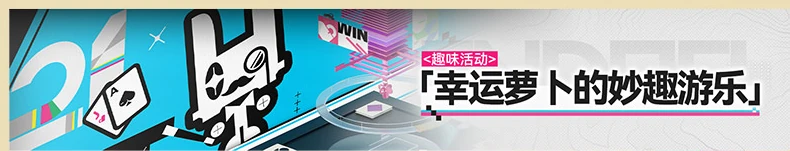
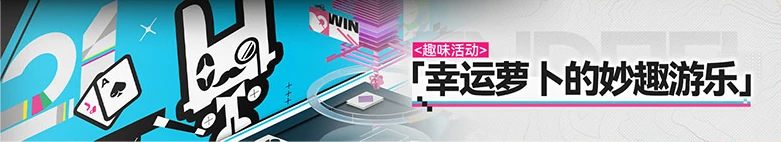
fix(calendar): 改善第八版活动横幅裁切与展示
按官方插画边缘重裁配图，让窄活动条中的横幅等比铺满行高，并在详情保留完整插画。

diff --git a/app.js b/app.js
@@ -249,15 +249,22 @@ function eventRemainingText(event, now = new Date()) {
 function applyEventVisual(element, event) {
   element.dataset.visual = event.visual ?? event.category;
   element.classList.toggle("has-image", Boolean(event.image));
-  // 官方活动与卡池横幅完整展示，详情沿用横幅比例。
-  const artwork = event.image?.match(/\/assets\/events\/(danqing|winter|pool|mushroom)-[^/]+\.webp$/u)?.[1];
+  const artwork = event.image?.match(/\/assets\/events\/((?:danqing|winter|pool|mushroom)-[^/]+)\.webp$/u)?.[1];
+  const tallArtwork = artwork?.startsWith("mushroom-pool-") || artwork === "mushroom-old-dam";
   element.classList.toggle("banner-art", Boolean(artwork));
-  element.classList.toggle("tall-announcement-art", /\/mushroom-(?:pool-[^/]+|old-dam)\.webp$/u.test(event.image || ""));
+  element.classList.toggle("tall-announcement-art", tallArtwork);
+  element.style.setProperty("--banner-aspect", tallArtwork
+    ? `781 / ${artwork === "mushroom-old-dam" ? 440 : 438}`
+    : "5.5");
+  element.style.setProperty("--banner-position", tallArtwork
+    ? `${event.category === "operator" ? "28%" : "50%"} 40%`
+    : "center");
   element.classList.toggle(
     "pool-art",
     Boolean(event.image) && (event.category === "operator" || event.category === "arsenal"),
   );
   if (event.backgroundType) element.dataset.backgroundType = event.backgroundType;
+  else delete element.dataset.backgroundType;
   element.style.setProperty("--event-color", event.color);
   element.style.setProperty("--event-image", event.image ? `url("${event.image}")` : "none");
 }
@@ -784,29 +791,35 @@ function updateVisibleEventContent() {
     const barStart = labelWidth + start * currentDayWidth;
     const barWidth = Math.max(duration * currentDayWidth, 20);
     const barEnd = barStart + barWidth;
-    const visibleStart = Math.max(barStart, viewStart);
     const visibleEnd = Math.min(barEnd, viewEnd);
+    if (visibleEnd <= Math.max(barStart, viewStart)) return;
 
+    const contentStart = barStart + bar.clientLeft;
+    const visibleStart = Math.max(contentStart, viewStart);
     if (visibleEnd <= visibleStart) return;
 
-    const hiddenLeft = Math.max(visibleStart - barStart, 0);
+    const hiddenLeft = visibleStart - contentStart;
     const visibleWidth = visibleEnd - visibleStart;
     const barHeight = bar.clientHeight;
     const characterArt = bar.classList.contains("pool-art") && bar.dataset.backgroundType !== "weapon";
     const bannerArt = bar.classList.contains("banner-art");
-    // 角色始终保留横幅局部构图，窄条允许只露眼睛，武器保持整体比例。
-    // 活动横幅使用完整原图比例和全部行高，不受装饰图片宽度上限限制。
+    // 为常驻及开放式日程末尾的箭头留出空间，横幅资源在图片区等比裁切。
+    const visualEnd = bannerArt && (state.event.permanent || state.event.endLabel)
+      ? Math.max(visibleStart, Math.min(visibleEnd, barEnd - 13))
+      : visibleEnd;
+    const visualRoom = visualEnd - visibleStart;
+    const bannerCopySpace = Math.min(112, visualRoom / 2);
+    const bannerWidthLimit = barHeight * (bar.classList.contains("tall-announcement-art") ? 4 : 5.5);
     const visualWidth = bannerArt
-      ? Math.min(visibleWidth * 0.52, barHeight * (bar.classList.contains("tall-announcement-art") ? 790 / 447 : 5.5))
+      ? Math.min(visualRoom - bannerCopySpace, bannerWidthLimit)
       : Math.min(visibleWidth * 0.38, characterArt
         ? Math.min(320, Math.max(160, barHeight * 4.8))
         : barHeight * (bar.classList.contains("pool-art") ? 2.8 : 3.2));
-    const visualInset = Math.min(
-      Math.max(visibleEnd - barStart - visualWidth, hiddenLeft),
-      Math.max(barWidth - visualWidth, 0),
-    );
+    const visualInset = visualEnd - contentStart - visualWidth;
     // 图片与文字各用独立区域，时长标签不再叠在横幅上。
-    const copyWidth = Math.max(0, visibleWidth - (state.image ? visualWidth + 6 : 0));
+    const copyWidth = state.image && visualWidth > 0
+      ? Math.max(0, visualInset - hiddenLeft - Math.min(6, visibleWidth * 0.08))
+      : visibleWidth;
     const labelLimit = Math.max(20, copyWidth * 0.35);
     const labelsCollapsed = copyWidth < 100;
     const remainingBadge = state.remainingBadge && !state.remainingBadge.hidden ? state.remainingBadge : null;

diff --git a/workspace.css b/workspace.css
@@ -128,9 +128,9 @@ main { display: flex; flex-direction: column; flex: 1 1 0; min-height: 0; paddin
 .event-bar.pool-art .event-art { display: none; }
 .event-bar.has-image:not(.pool-art) .event-image { background-image: linear-gradient(90deg, var(--event-color), transparent 30%, transparent 70%, var(--event-color)), var(--event-image); background-position: center; background-size: cover; opacity: .72; }
 .event-bar.has-image.banner-art .event-image {
-  background-image: linear-gradient(90deg, var(--event-color), transparent 22%), var(--event-image);
-  background-size: 100% 100%, contain;
-  background-position: right center;
+  background-image: var(--event-image);
+  background-size: cover;
+  background-position: var(--banner-position);
   background-repeat: no-repeat;
   mask-image: none;
   -webkit-mask-image: none;
@@ -141,8 +141,7 @@ main { display: flex; flex-direction: column; flex: 1 1 0; min-height: 0; paddin
 .event-bar.banner-art::after { display: none; }
 .event-bar.banner-art .event-copy { background: linear-gradient(90deg, transparent 40%, rgb(0 0 0 / 16%)); }
 .event-bar.banner-art .event-copy strong, .event-bar.banner-art .event-copy small { text-shadow: 0 1px 3px rgb(0 0 0 / 65%); }
-.event-dialog.banner-art .dialog-visual { height: auto; aspect-ratio: 835 / 152; background-image: var(--event-image); background-size: contain; background-repeat: no-repeat; background-position: center; background-color: var(--event-color); }
-.event-dialog.tall-announcement-art .dialog-visual { aspect-ratio: 790 / 447; }
+.event-dialog.banner-art .dialog-visual { height: auto; aspect-ratio: var(--banner-aspect); background-image: var(--event-image); background-size: contain; background-repeat: no-repeat; background-position: center; background-color: var(--event-color); }
 .banner-art .event-art, .banner-art .dialog-visual b, .banner-art .agenda-visual b { display: none; }
 .event-bar::after { opacity: .055; }
 .event-bar.live::after { opacity: .1; animation: none; }

diff --git a/assets/events/OFFICIAL_SOURCES.md b/assets/events/OFFICIAL_SOURCES.md
@@ -133,35 +133,35 @@
 
 ## 第八版版本内容说明与横幅裁切（2026-11-22）
 
-三张官方原图的宽度均为 1000 像素。下方坐标使用左上原点，所有图片统一截取横向 `[101, 891)`，纵向按下列范围裁切。WebP 质量 90，保留裁切区域原始尺寸。 [官方动态](https://www.bilibili.com/opus/1273471549311025159)
+三张官方原图的宽度均为 1000 像素。按插画边缘重裁，去掉长图的留边。下方坐标使用左上原点，横向默认取 `[110, 891)`，战争回响和协议通行证取 `[110, 892)`。WebP 质量 90，保留裁切区域原始尺寸。时间轴可随活动条宽度等比裁切，详情展示完整插画。 [官方动态](https://www.bilibili.com/opus/1273471549311025159)
 
 第一张原图高 11500 像素。 [原图第 1 张](https://i0.hdslb.com/bfs/new_dyn/42f471f1ef1fba0f658807bc6eb3d11d1265652806.jpg)
 
-- `[2236, 2387)` 照片横幅 `mushroom-story.webp`，蜜饼是我的祈愿。
-- `[3189, 3638)` 区域图 `mushroom-old-dam.webp`，武陵旧水坝。
-- `[4072, 4519)` `mushroom-pool-ceobe.webp`，锻砧、行囊与蜜糖。
-- `[5469, 5916)` `mushroom-pool-gilberta.webp`，致每一个飘游之愿。
-- `[6423, 6870)` `mushroom-pool-rossi.webp`，绯红瑰宝。
-- `[7904, 8351)` `mushroom-pool-sweet-deal.webp`，恣游申领。
-- `[8960, 9407)` `mushroom-pool-delivery.webp`，飘行申领。
-- `[9971, 10418)` `mushroom-pool-scarlet.webp`，赤獠申领。
+- `[2245, 2387)` 照片横幅 `mushroom-story.webp`，蜜饼是我的祈愿。
+- `[3198, 3638)` 区域图 `mushroom-old-dam.webp`，武陵旧水坝。
+- `[4081, 4519)` `mushroom-pool-ceobe.webp`，锻砧、行囊与蜜糖。
+- `[5478, 5916)` `mushroom-pool-gilberta.webp`，致每一个飘游之愿。
+- `[6432, 6870)` `mushroom-pool-rossi.webp`，绯红瑰宝。
+- `[7913, 8351)` `mushroom-pool-sweet-deal.webp`，恣游申领。
+- `[8969, 9407)` `mushroom-pool-delivery.webp`，飘行申领。
+- `[9980, 10418)` `mushroom-pool-scarlet.webp`，赤獠申领。
 
 第二张原图高 10298 像素。 [原图第 2 张](https://i0.hdslb.com/bfs/new_dyn/37fa9c4ebe135702ae5b3b7cd0cb87161265652806.jpg)
 
-- `[2236, 2387)` `mushroom-array-construction.webp`，阵列建设与重建禁区共用。
-- `[3048, 3199)` `mushroom-fungi-intro.webp`，蘑菇！蕈类！真菌！
-- `[3643, 3794)` `mushroom-sanity.webp`，两期理智补给共用。
-- `[4280, 4431)` `mushroom-marcher-gift.webp`，行军者的报到。
-- `[4874, 5025)` `mushroom-lucky-turnip.webp`，“幸运萝卜”的妙趣游乐。
-- `[5650, 5801)` `mushroom-competition.webp`，方兴！竞技大会！
-- `[6385, 6536)` `mushroom-gift-sorting.webp`，分拣吧！管礼员。
-- `[6992, 7143)` `mushroom-war-echo.webp`，游离与警觉赛季共用。
-- `[8111, 8262)` `mushroom-monument-atrocity.webp`，暴君武装与丰碑揭示·暴虐共用。
-- `[9421, 9572)` `mushroom-puzzle-special.webp`，密境行者特别篇「菌类秘事」。
+- `[2245, 2387)` `mushroom-array-construction.webp`，阵列建设与重建禁区共用。
+- `[3057, 3199)` `mushroom-fungi-intro.webp`，蘑菇！蕈类！真菌！
+- `[3652, 3794)` `mushroom-sanity.webp`，两期理智补给共用。
+- `[4289, 4431)` `mushroom-marcher-gift.webp`，行军者的报到。
+- `[4883, 5025)` `mushroom-lucky-turnip.webp`，“幸运萝卜”的妙趣游乐。
+- `[5659, 5801)` `mushroom-competition.webp`，方兴！竞技大会！
+- `[6394, 6536)` `mushroom-gift-sorting.webp`，分拣吧！管礼员。
+- `[7001, 7143)` `mushroom-war-echo.webp`，游离与警觉赛季共用。
+- `[8120, 8262)` `mushroom-monument-atrocity.webp`，暴君武装与丰碑揭示·暴虐共用。
+- `[9430, 9572)` `mushroom-puzzle-special.webp`，密境行者特别篇「菌类秘事」。
 
 第三张原图高 5455 像素。 [原图第 3 张](https://i0.hdslb.com/bfs/new_dyn/a8f08897645cfa1f84020434e052a9341265652806.jpg)
 
-- `[2171, 2322)` `mushroom-bundles.webp`，三项限时组合包共用。
-- `[4102, 4253)` `mushroom-protocol-pass.webp`，协议通行证·蘑境。
+- `[2180, 2322)` `mushroom-bundles.webp`，三项限时组合包共用。
+- `[4111, 4253)` `mushroom-protocol-pass.webp`，协议通行证·蘑境。
 
 社区时间轴 Ver. 26.11.22a 用于交叉核对赛季、跨版武库和内容更新节点。图中下版预热签到的开始时间为 `??`，日历仅保留待官方公布的版末占位。 [社区时间轴](https://i0.hdslb.com/bfs/new_dyn/27a652c4247b4bc6e62f53d8322358238412516.png)
